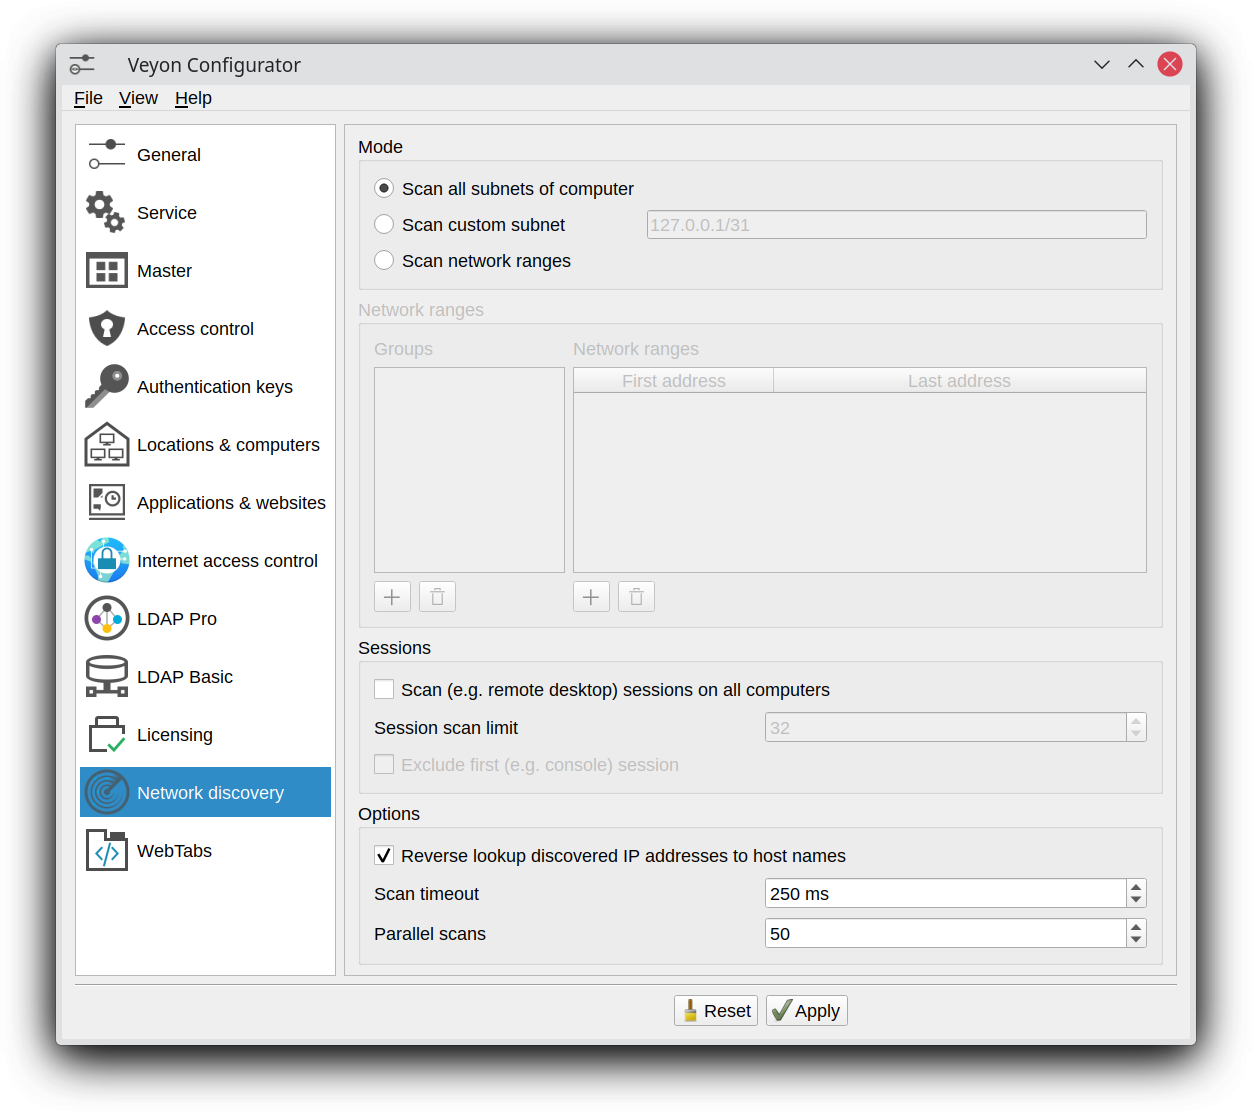
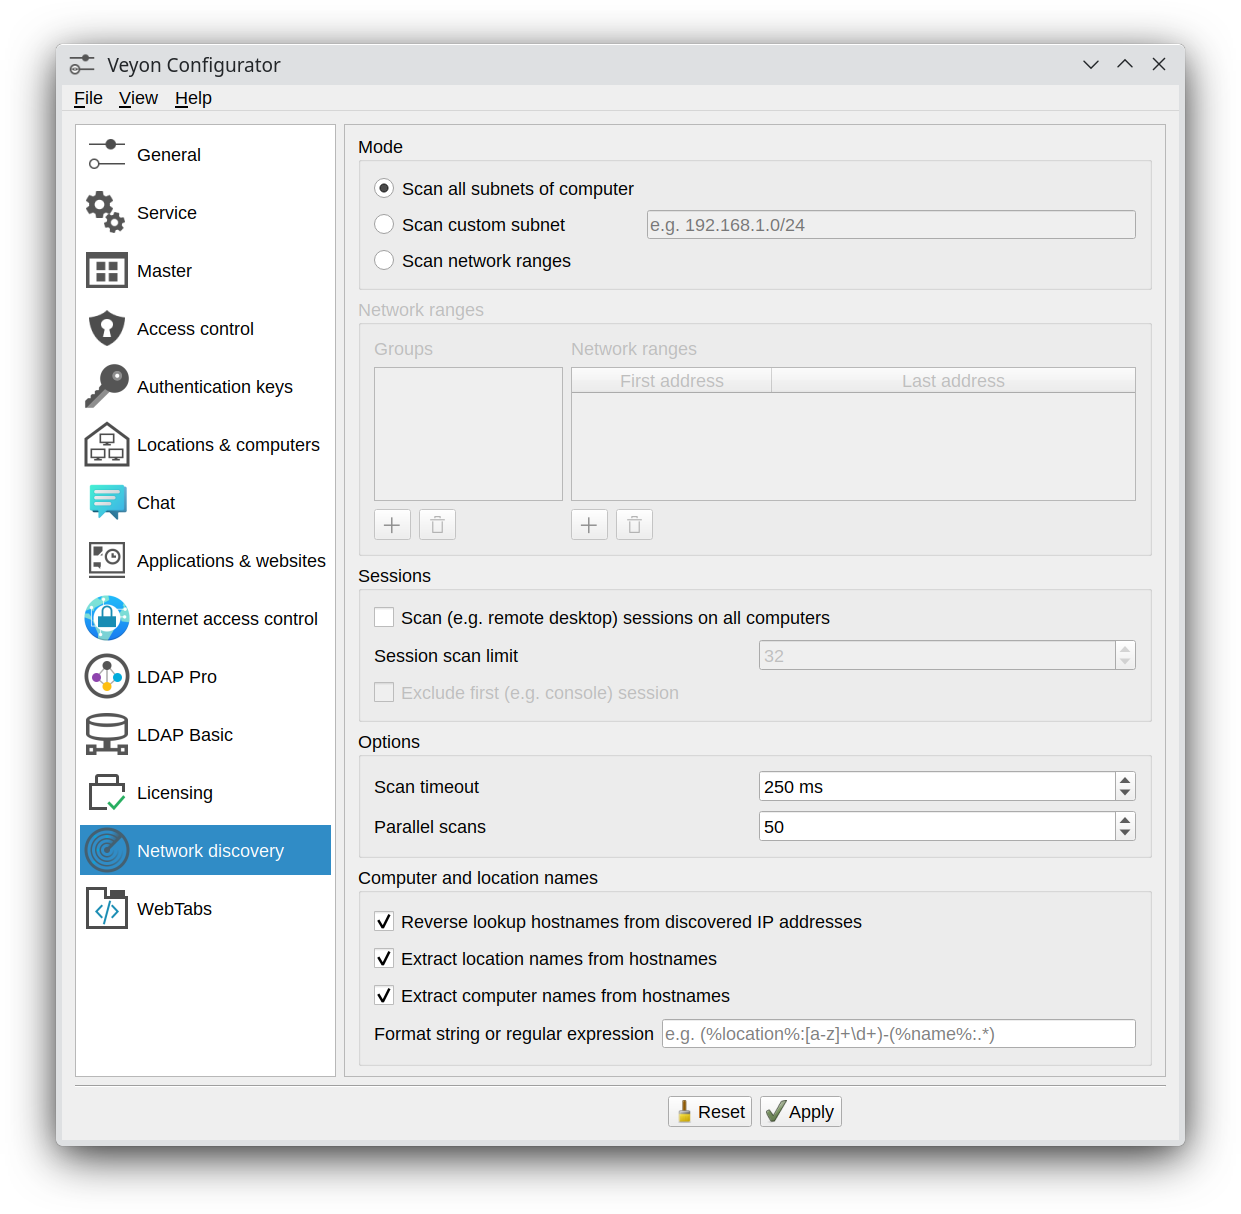
addons: update for NetworkDiscovery 4.7

diff --git a/addons/network-discovery.rst b/addons/network-discovery.rst
@@ -12,7 +12,7 @@ The Veyon Network Discovery add-on extends Veyon Master to scan configured netwo
 Initial setup
 -------------
 
-First of all the Veyon Add-ons package needs to be installed. Make sure to download and install the version corresponding to your Veyon installation, i.e. Veyon 4.6.0 requires Veyon Add-ons 4.6.0 while for Veyon 4.5.7 you need to install version 4.5.7 of the add-ons. Please refer to :ref:`DeployingAddons` for further information.
+First of all the Veyon Add-ons package needs to be installed. Make sure to download and install the version corresponding to your Veyon installation, i.e. Veyon 4.7.0 requires Veyon Add-ons 4.7.0 while for Veyon 4.5.7 you need to install version 4.5.7 of the add-ons. Please refer to :ref:`DeployingAddons` for further information.
 
 After the installation has completed, you'll see some new configuration pages in the Veyon Configurator program. One of them is called :guilabel:`Network discovery` and allows to set up the add-on:
 
@@ -39,13 +39,28 @@ Fine tuning
 
 After you have configured the desired subnets or network ranges, you can start tweaking the options for scanning computers to decrease the initial scan duration.
 
-Normally your DNS server should be able to reverse lookup hostnames from IP addresses for all computers. If not, it's strongly recommended to change your DNS server settings accordingly. For environments where this is not feasible, you can disable the :guilabel:`Reverse lookup discovered IP addresss to host names` option to prevent unnecessary DNS timeouts.
+Normally your DNS server should be able to reverse lookup hostnames from IP addresses for all computers. If not, it's strongly recommended to change your DNS server settings accordingly. For environments where this is not feasible, you can disable the :guilabel:`Reverse lookup hostnames from discovered IP addresses` option to prevent unnecessary DNS timeouts.
 
 In most cases you can increase the number of :guilabel:`parallel scans` to 100–300. Veyon Master opens the specified number of TCP connections in parallel so make sure to not exhaust the resources of the computer or per-process resource limits set by the operating system.
 
 If all computers are on the same LAN (i.e. ping times of usually less than 1 ms) you can also decrease the :guilabel:`scan timeout` to 25–100 ms. Each computer responding within that timeout is shown in Veyon Master.
 
 With a scan timeout of 25 ms and 250 parallel scans Veyon is able to scan ``25*250=6250`` computers per second. Using this formula you can easily calculate the ideal settings for your environment such that Veyon Master does not require too long for scanning while still detecting all computers reliably.
+
+Computer and location names
+---------------------------
+
+Depending on the mode, discovered computers are shown in the *Discovered computers* folder or in folders named like the configured network ranges groups. However if the hostnames also contain the room or location information, you can make Network Discovery extract the location folder name and optionally also the displayed computer name from the hostname. This is done by applying a regular expression on the hostnames. To match capture groups with the corresponding information (location/computer name), a special variable syntax has to be used:
+
+``(%<VARIABLE>%:…)``
+
+Currently the variables ``%location%`` and ``%name%`` are available.
+
+If you for example have hostnames in the format ``r<ROOM-NUMBER>-c<COMPUTER-NUMBER>`` (e.g. ``r101-c01.example.org``), you can use the following regular expression to extract the location (``r101``) and computer name (``c01``):
+
+``(%location%:[^-]*)-(%name%:[^.]*)``
+
+Please refer to the `Wikipedia article on regular expressions <https://en.wikipedia.org/wiki/Regular_expression>`_ for more information on the concept, syntax and available pattern options.
 
 Command line interface
 ----------------------
